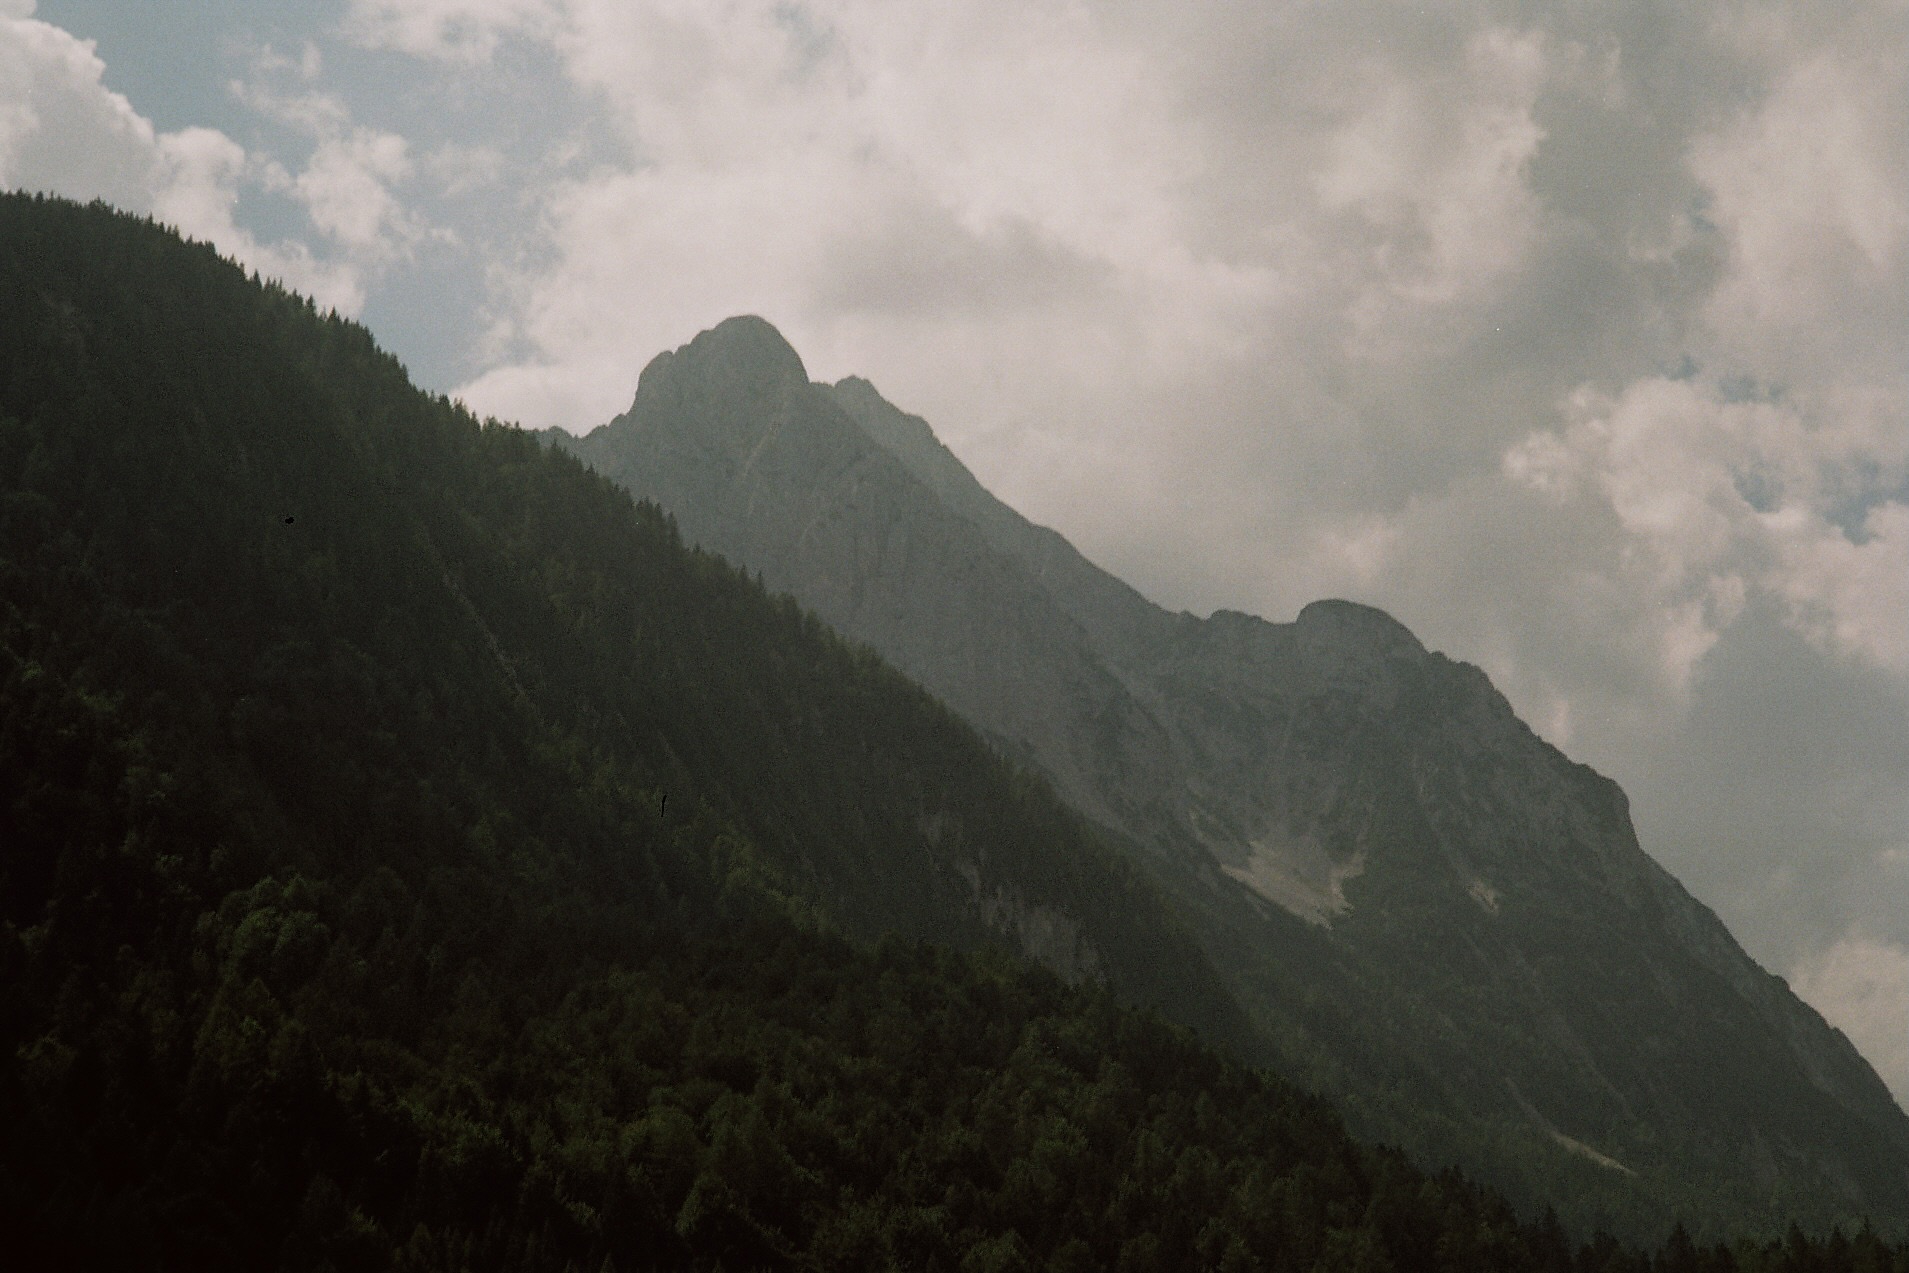
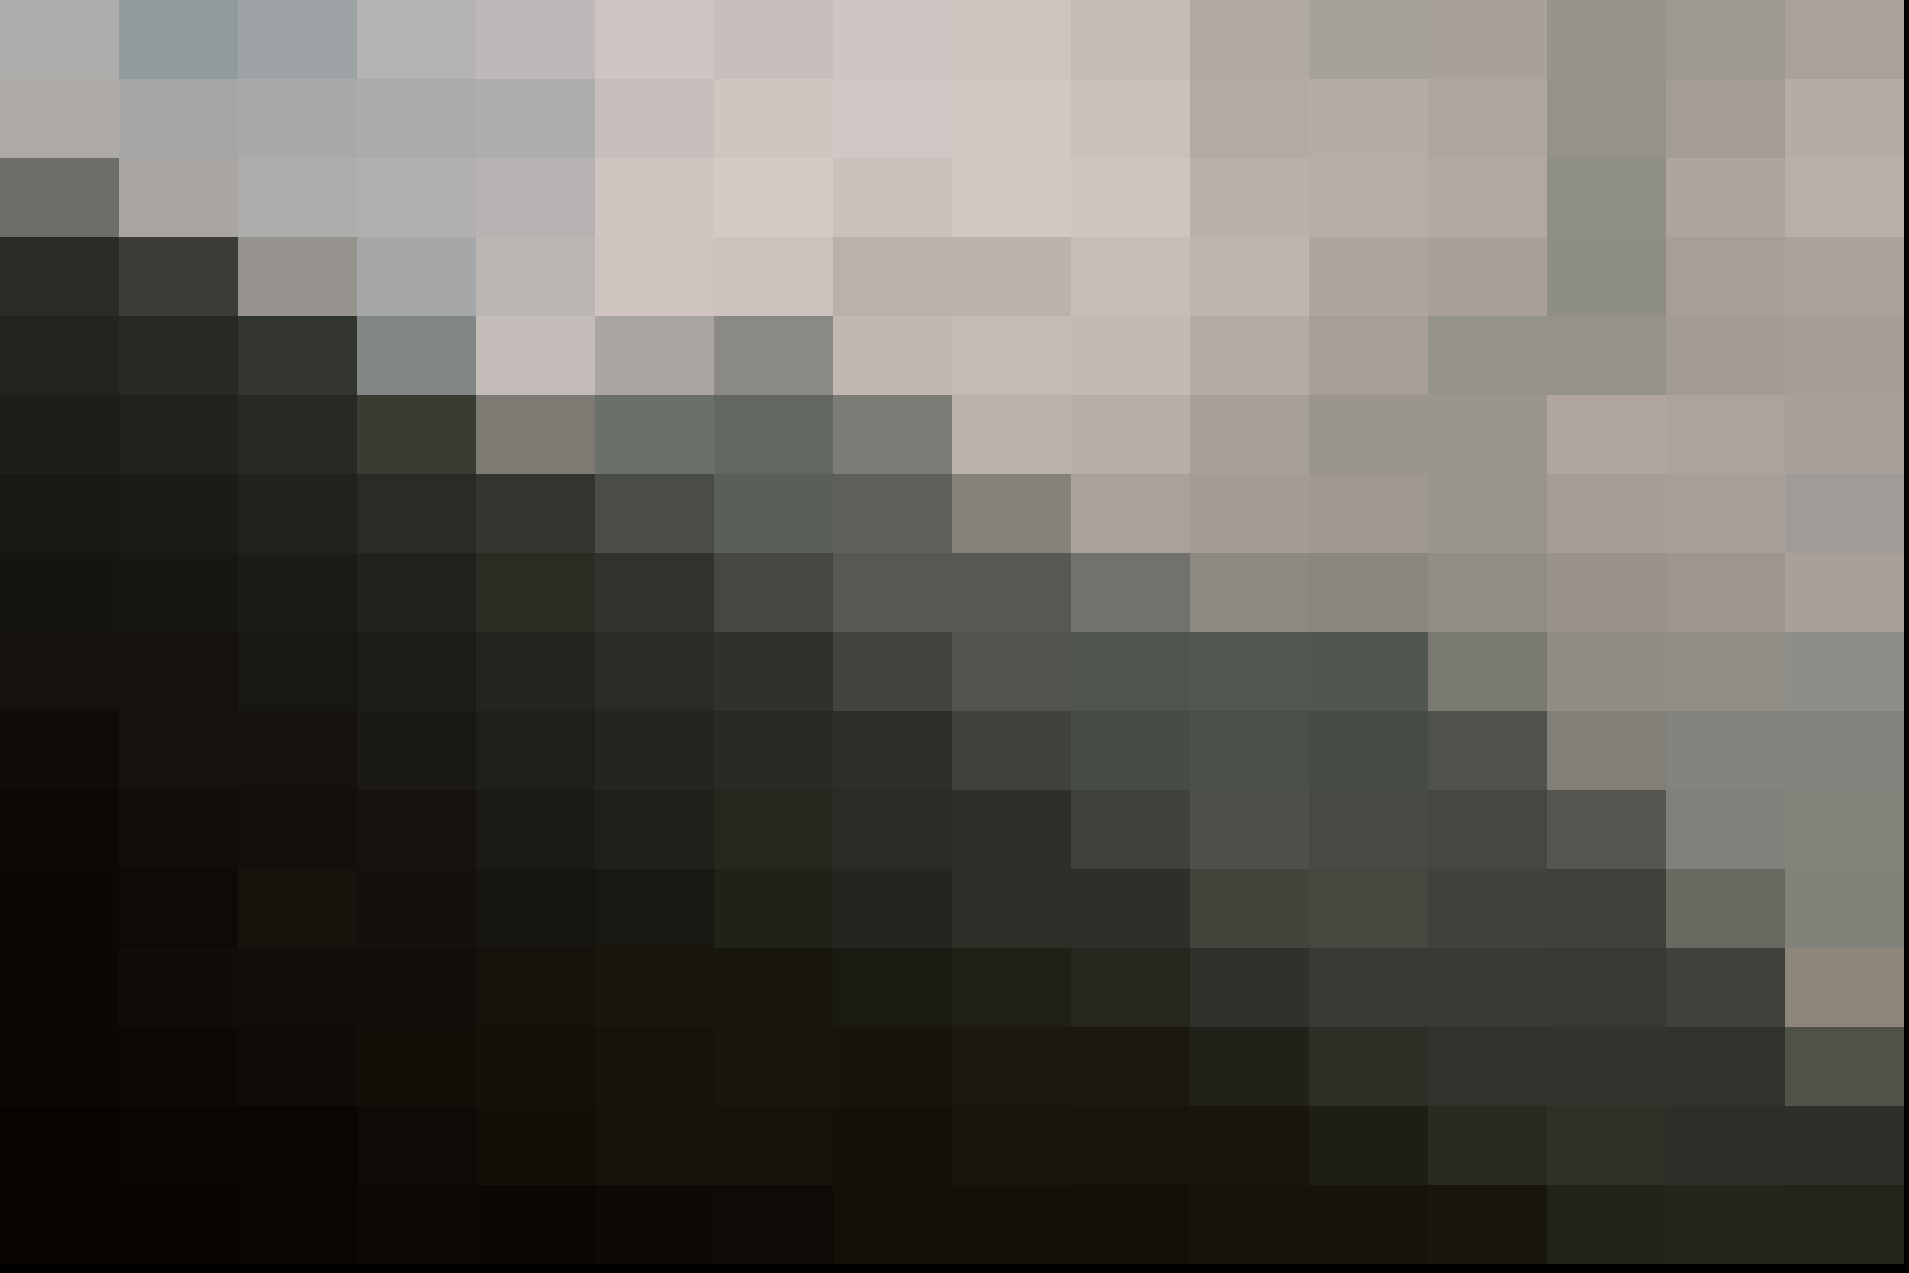
feat: add down- and upsampling of image

diff --git a/src/transformer.rs b/src/transformer.rs
@@ -1,0 +1,118 @@
+// 3x3 Image, (2 * 9 + 2)* 3 = 60
+//  rgb rgb rgb  rgb rgb rgb  rgb rgb rgb
+//  rgb rgb rgb  rgb rgb rgb  rgb rgb rgb
+//  rgb rgb rgb  rgb rgb rgb  rgb rgb rgb
+//
+//  rgb rgb rgb  rgb rgb rgb  rgb rgb rgb
+//  rgb rgb rgb  rgb rgb rgb  rgb rgb rgb
+//  rgb rgb rgb  rgb rgb (rgb)  rgb rgb rgb
+//
+//  rgb rgb rgb  rgb rgb rgb  rgb rgb rgb
+//  rgb rgb rgb  rgb rgb rgb  rgb rgb rgb
+//  rgb rgb rgb  rgb rgb rgb  rgb rgb rgb
+//
+//  To access block at (block_x, block_y):
+//  block_y=1 block_x=1 width 3
+//  block_pos = block_y * 3 + block_x
+//
+//  To access pixel in block (x,y):
+//  block_pos + (y * 3 + x)
+
+use jpeg_decoder::PixelFormat;
+
+pub fn down_sample(
+    vec: Vec<u8>,
+    width: usize,
+    height: usize,
+    new_height: usize,
+    new_width: usize,
+    pixel_format: PixelFormat,
+) -> Vec<u8> {
+    /*
+     * Given kxk pixel block
+     * Block = [
+     * [R₁,G₁,B₁], [R₂,G₂,B₂], ..., [Rₖ,Gₖ,Bₖ],
+     * ...
+     * ]
+     *
+     * Compute average
+     * R_avg = (R₁ + R₂ + ... + Rₖ) / (k * k)
+     * G_avg = ...
+     * B_avg = ...
+     *
+     * P_avg = [R_avg, G_avg, B_avg]
+     */
+
+    let block_size_x = width / new_width;
+    let block_size_y = height / new_height;
+    // assert_eq!(
+    //     block_size_x, block_size_y,
+    //     "Non-square blocks not supported"
+    // );
+
+    let pixel_bytes: usize = pixel_format.pixel_bytes().try_into().unwrap();
+    let mut downsampled_vec: Vec<u8> = Vec::with_capacity(new_height * new_width * pixel_bytes);
+    for block_y in 0..new_height {
+        for block_x in 0..new_width {
+            let mut r_sum: usize = 0;
+            let mut g_sum: usize = 0;
+            let mut b_sum: usize = 0;
+            let mut count: usize = 0;
+            for y in 0..block_size_y {
+                for x in 0..block_size_x {
+                    let pixel_x = block_x * block_size_x + x;
+                    let pixel_y = block_y * block_size_y + y;
+                    let idx = (pixel_y * width + pixel_x) * pixel_bytes;
+
+                    r_sum += vec[idx] as usize;
+                    g_sum += vec[idx + 1] as usize;
+                    b_sum += vec[idx + 2] as usize;
+                    count += 1;
+                }
+            }
+            // compute the average
+            downsampled_vec.push((r_sum / count) as u8);
+            downsampled_vec.push((g_sum / count) as u8);
+            downsampled_vec.push((b_sum / count) as u8);
+        }
+    }
+
+    downsampled_vec
+}
+
+pub fn up_sample(
+    vec: Vec<u8>,
+    original_height: usize,
+    original_width: usize,
+    new_height: usize,
+    new_width: usize,
+    pixel_format: PixelFormat,
+) -> Vec<u8> {
+    let pixel_bytes: usize = pixel_format.pixel_bytes().try_into().unwrap();
+    let mut upsampled_vec: Vec<u8> = vec![0u8; new_width * new_height * pixel_bytes];
+
+    let block_size_x = new_width / original_width;
+    let block_size_y = new_height / original_height;
+    for y in 0..original_height {
+        for x in 0..original_width {
+            let idx = (y * original_width + x) * pixel_bytes;
+            let r = vec[idx];
+            let g = vec[idx + 1];
+            let b = vec[idx + 2];
+
+            for dy in 0..block_size_y {
+                for dx in 0..block_size_x {
+                    let out_x = x * block_size_x + dx;
+                    let out_y = y * block_size_y + dy;
+                    let out_idx = (out_y * new_width + out_x) * pixel_bytes;
+
+                    upsampled_vec[out_idx] = r;
+                    upsampled_vec[out_idx + 1] = g;
+                    upsampled_vec[out_idx + 2] = b;
+                }
+            }
+        }
+    }
+
+    upsampled_vec
+}

diff --git a/src/main.rs b/src/main.rs
@@ -1,11 +1,13 @@
 mod cli;
 mod decoder;
 mod encoder;
+mod transformer;
 
 use clap::Parser;
 use cli::Args;
 use decoder::decode;
 use encoder::encode;
+use transformer::{down_sample, up_sample};
 
 fn main() {
     let args = Args::parse();
@@ -18,8 +20,31 @@ fn main() {
 
     // Decode image file
     let (pixel_vec, metadata) = decode(&args.input);
+    println!("Metadata {:?}", metadata);
     // Transform
-    let transformed_pixel_vec: Vec<u8> = pixel_vec;
+    let downsampled_pixel_vec: Vec<u8> = down_sample(
+        pixel_vec,
+        metadata.width.into(),
+        metadata.height.into(),
+        args.resolution.into(),
+        args.resolution.into(),
+        metadata.pixel_format,
+    );
+
+    let upsampled_pixel_vec: Vec<u8> = up_sample(
+        downsampled_pixel_vec,
+        args.resolution.into(),
+        args.resolution.into(),
+        metadata.height.into(),
+        metadata.width.into(),
+        metadata.pixel_format,
+    );
+
     // encode to image file
-    encode(transformed_pixel_vec, metadata, &args.output);
+    encode(
+        upsampled_pixel_vec,
+        metadata.height,
+        metadata.width,
+        &args.output,
+    );
 }

diff --git a/src/encoder.rs b/src/encoder.rs
@@ -1,19 +1,13 @@
-use jpeg_decoder::ImageInfo;
 use jpeg_encoder::{ColorType, Encoder};
 use std::fs::File;
 use std::io::BufWriter;
 use std::path::PathBuf;
 
-pub fn encode(vec: Vec<u8>, metadata: ImageInfo, output_file_path: &PathBuf) -> () {
+pub fn encode(vec: Vec<u8>, height: u16, width: u16, output_file_path: &PathBuf) -> () {
     // Encodes the pixel vector back to an jpeg file and also saves it to a path
     let output = File::create(output_file_path).unwrap();
     let encoder = Encoder::new(BufWriter::new(output), 100);
     encoder
-        .encode(
-            &vec,
-            metadata.width as u16,
-            metadata.height as u16,
-            ColorType::Rgb,
-        )
+        .encode(&vec, width as u16, height, ColorType::Rgb)
         .expect("JPEG encoding failed");
 }

diff --git a/src/cli.rs b/src/cli.rs
@@ -16,7 +16,7 @@ pub struct Args {
 
     // Scale of virtualized resolution
     #[arg(short, long, default_value_t = 16)]
-    pub resolution: u8,
+    pub resolution: u16,
     // Color depth of individual pixelds
     #[arg(short, long, default_value_t = 2)]
     pub bit_depth: u8,
